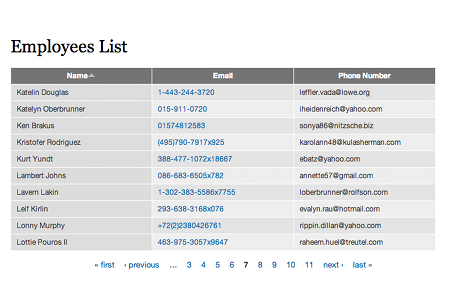
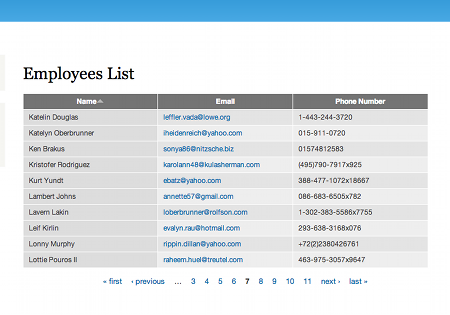
fix bug - wrong order in table

diff --git a/Employees.php b/Employees.php
@@ -148,7 +148,7 @@ class EmployeesList {
             ->limit($this->pager_limit)
             ->execute();
         foreach($result as $row) {
-            $emp = new Employee($row->name, $row->email, $row->phone);
+            $emp = new Employee($row->name, $row->phone, $row->email);
             $this->items[] = $emp;
         }
     }
